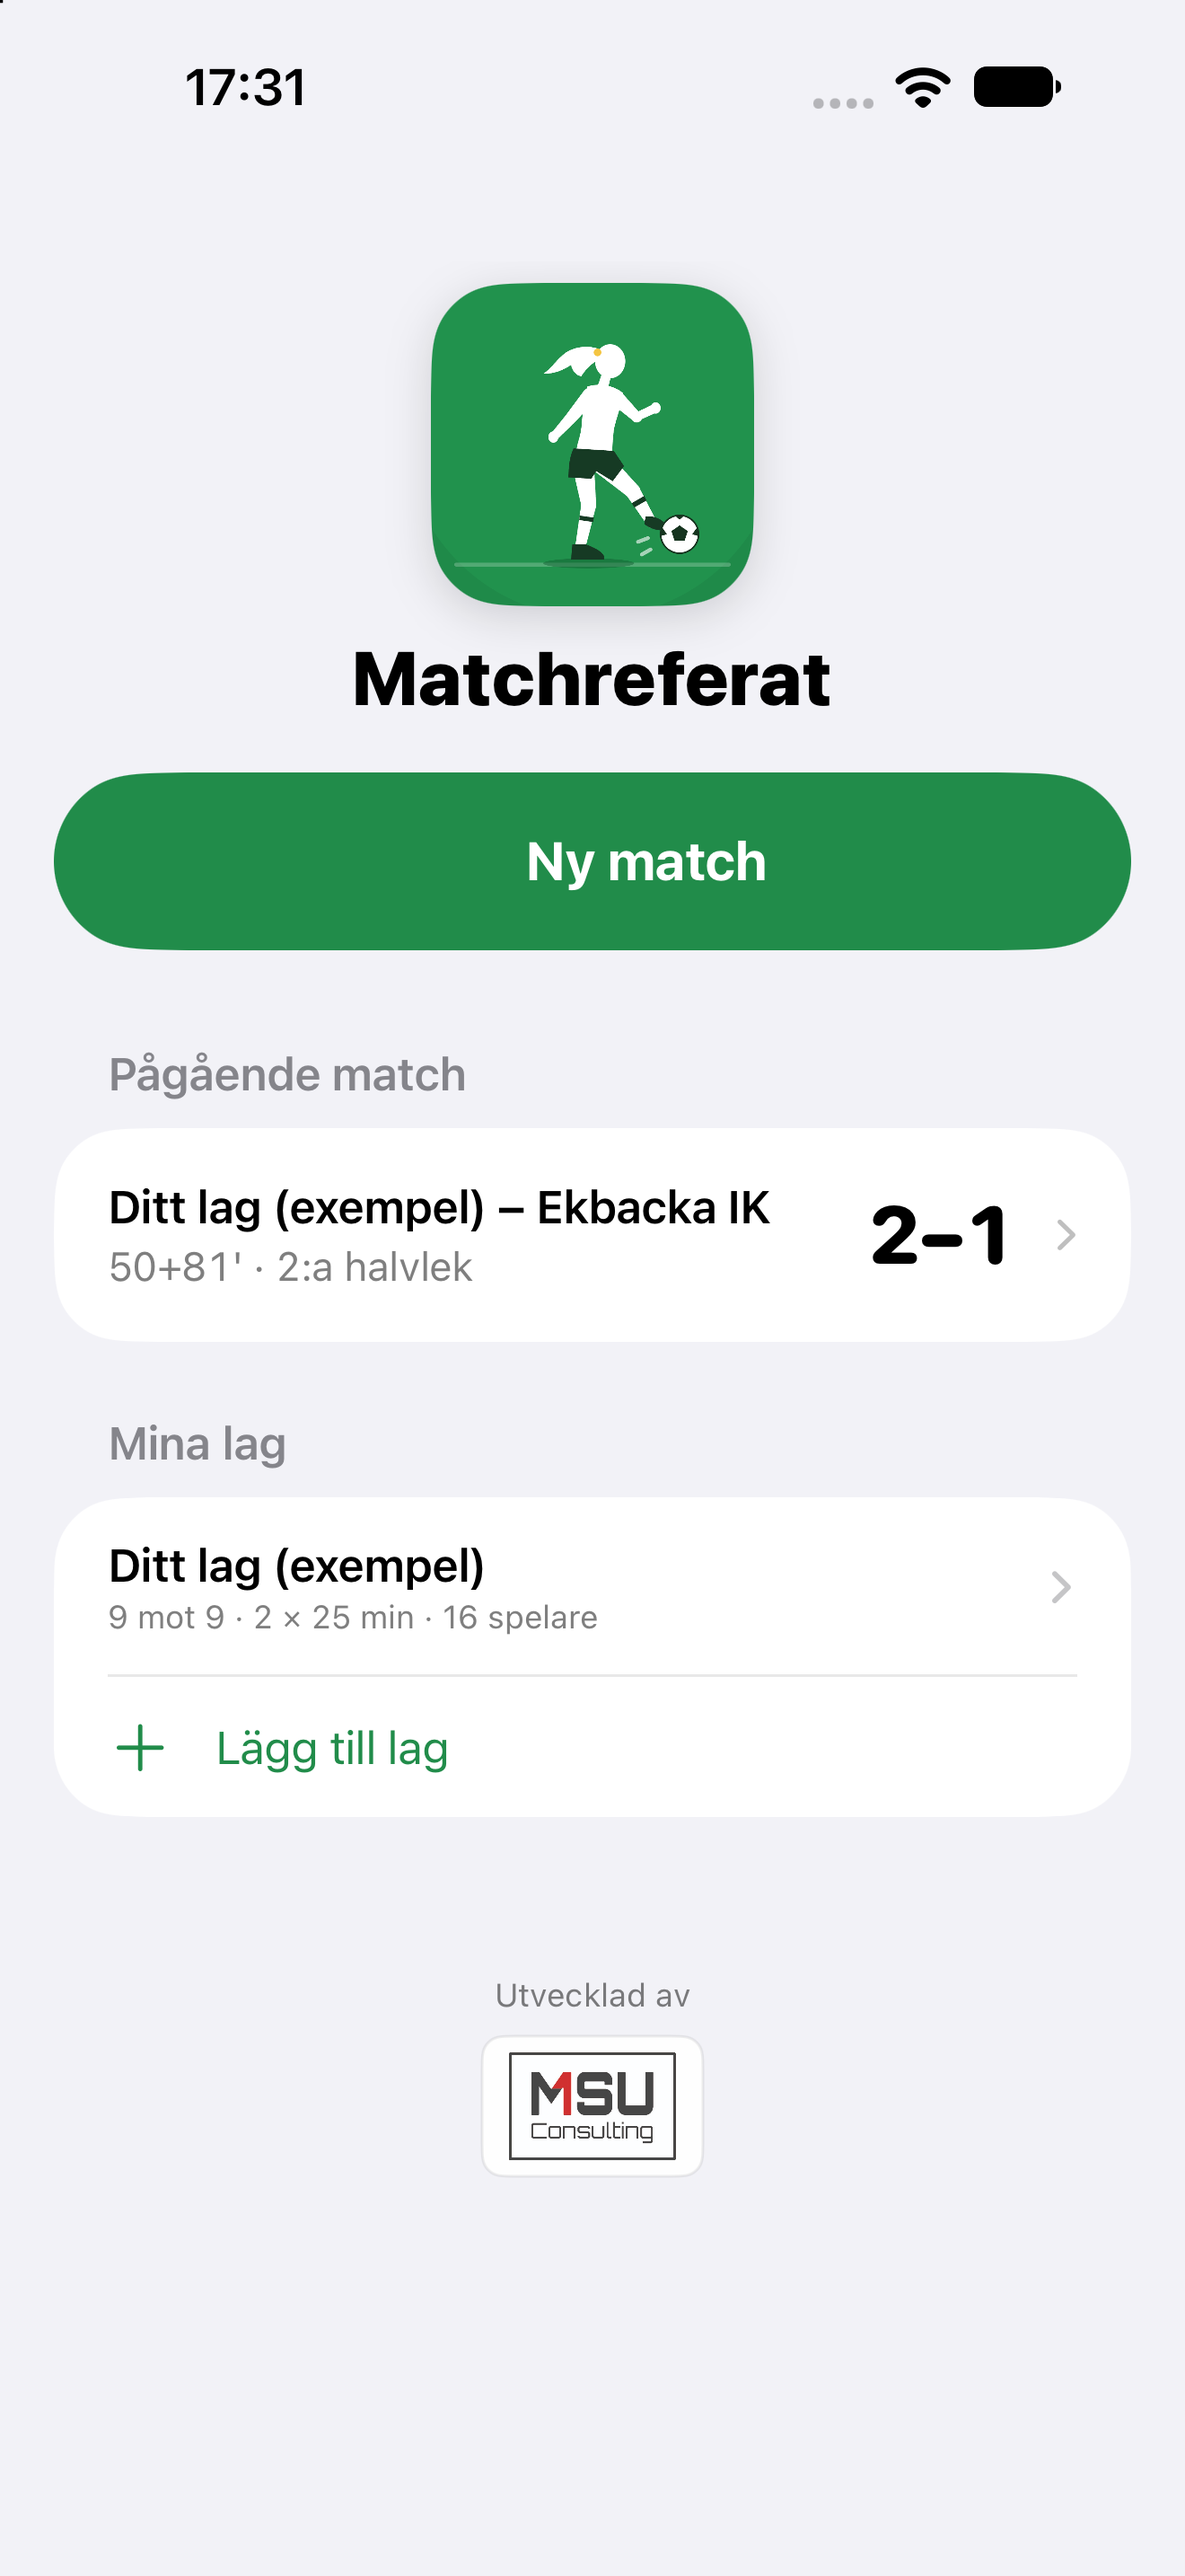
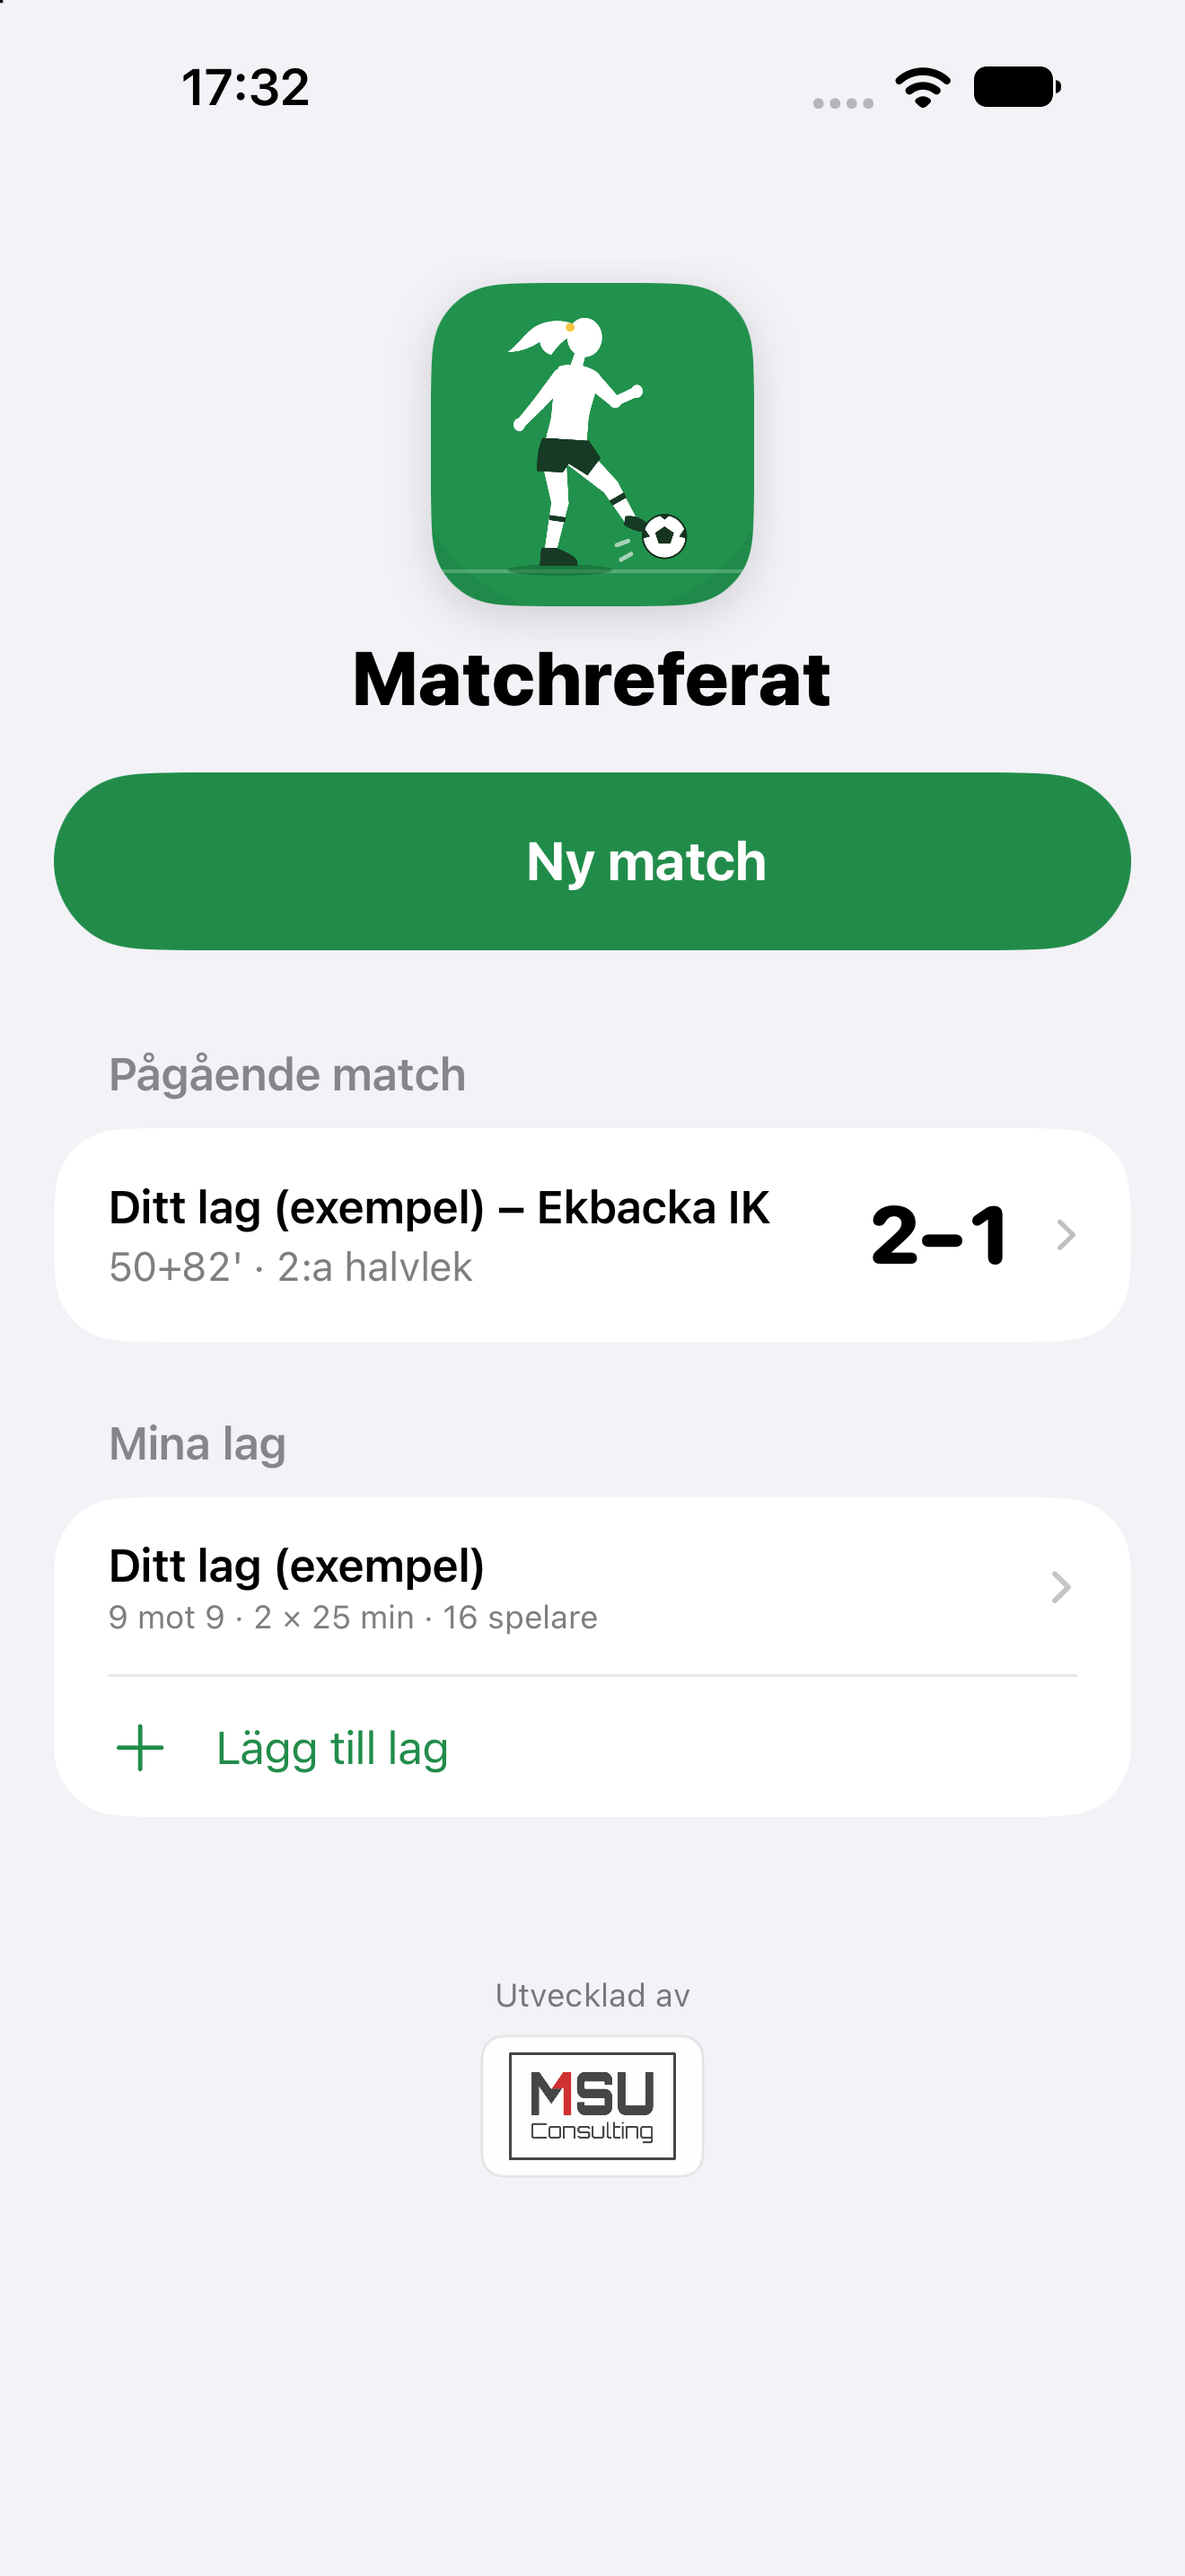
Större och centrerad figur i loggan

Changed region(s): [[0.4348, 0.1241, 0.5902, 0.2483], [0.2174, 0.031, 0.2485, 0.0621], [0.1553, 0.031, 0.1864, 0.0621]]

diff --git a/branding/generate-logo.py b/branding/generate-logo.py
@@ -93,10 +93,13 @@ svg = f"""<svg xmlns="http://www.w3.org/2000/svg" viewBox="0 0 512 512" width="1
   <!-- Matchreferat logo: a girl with a ponytail kicking a football. Original artwork, generated by generate-logo.py. -->
   <rect width="512" height="512" fill="{GREEN}"/>
   <circle cx="256" cy="230" r="300" fill="#24A055" opacity="0.35"/>
-  <path d="M40 446 H472" stroke="#FFFFFF" stroke-opacity="0.22" stroke-width="6" stroke-linecap="round"/>
+  <!-- figure scaled up and centred so it fills the icon -->
+  <g transform="translate(262 252) scale(1.15) translate(-300 -268)">
+  <path d="M60 446 H540" stroke="#FFFFFF" stroke-opacity="0.22" stroke-width="5" stroke-linecap="round"/>
   <ellipse cx="250" cy="444" rx="72" ry="8" fill="#0F5A2E" opacity="0.45"/>
   {''.join(parts)}
   {ball}
+  </g>
 </svg>
 """
 
